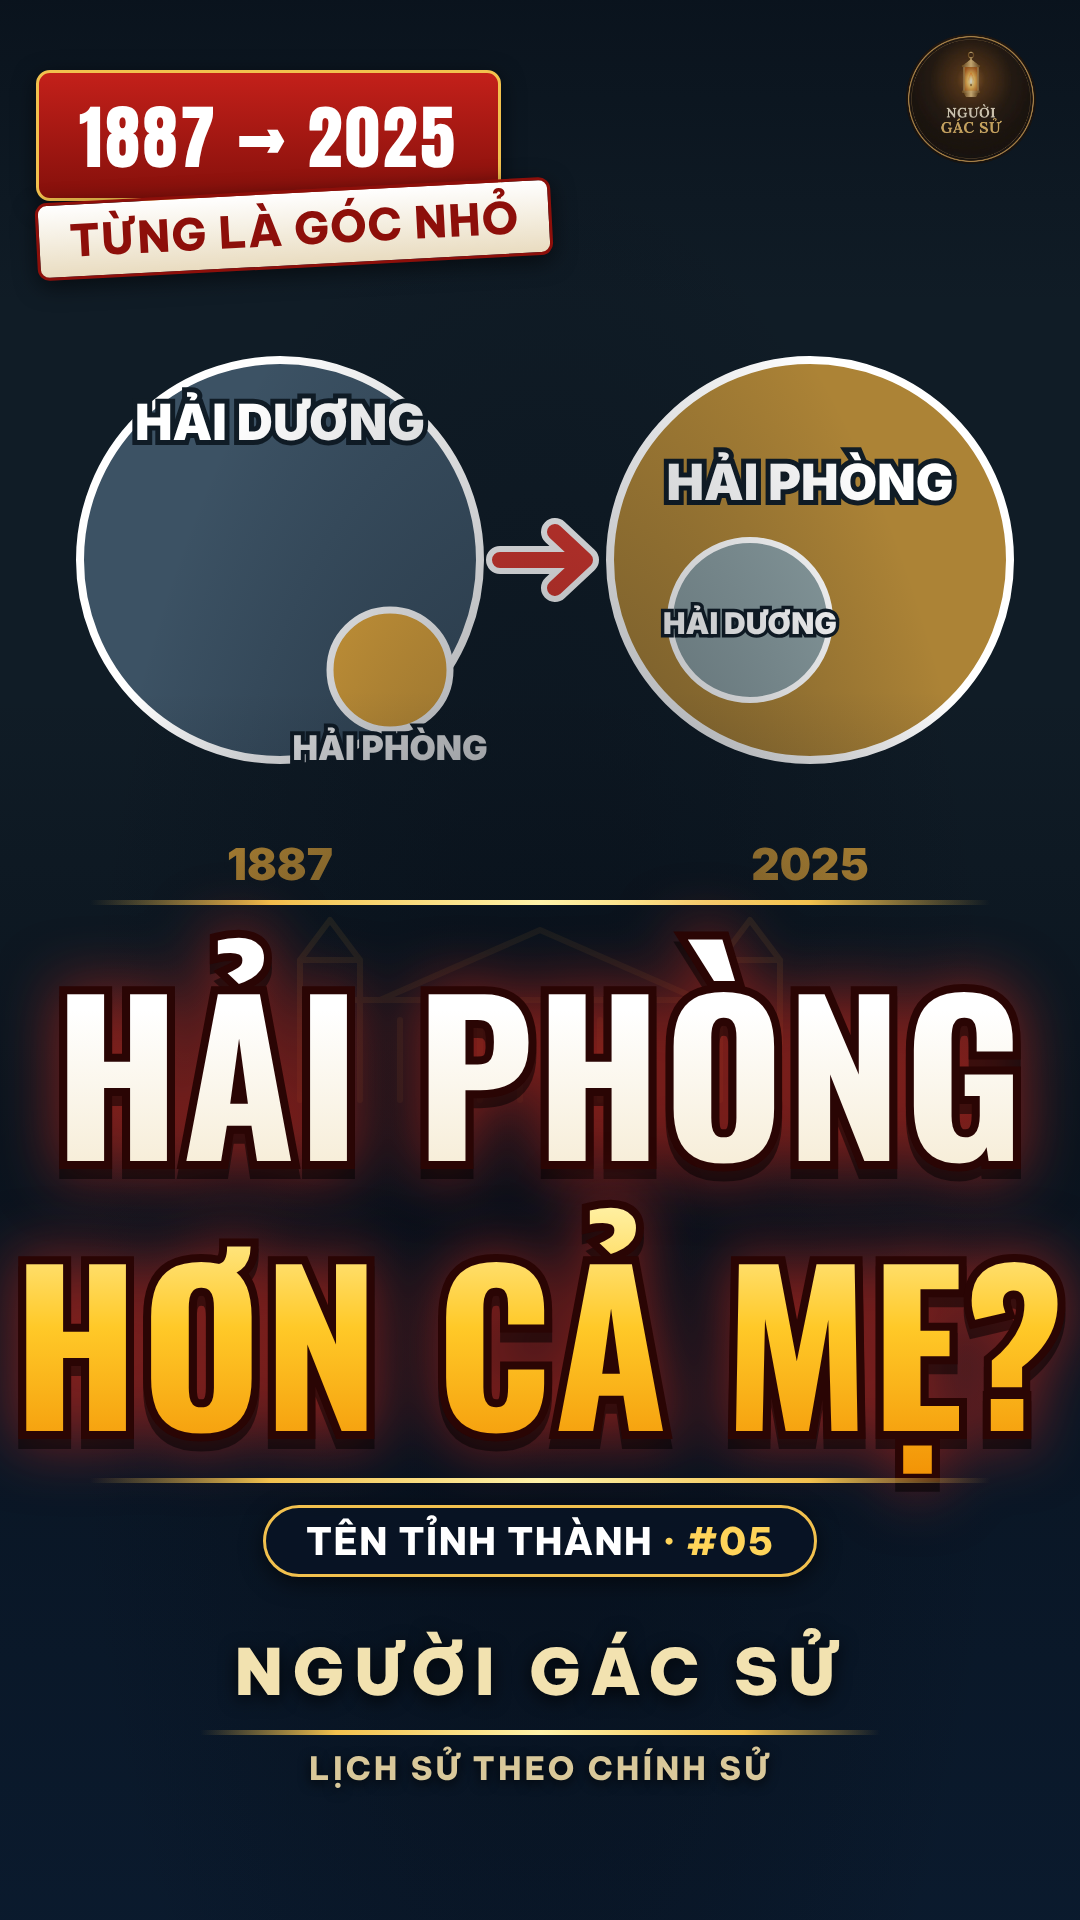
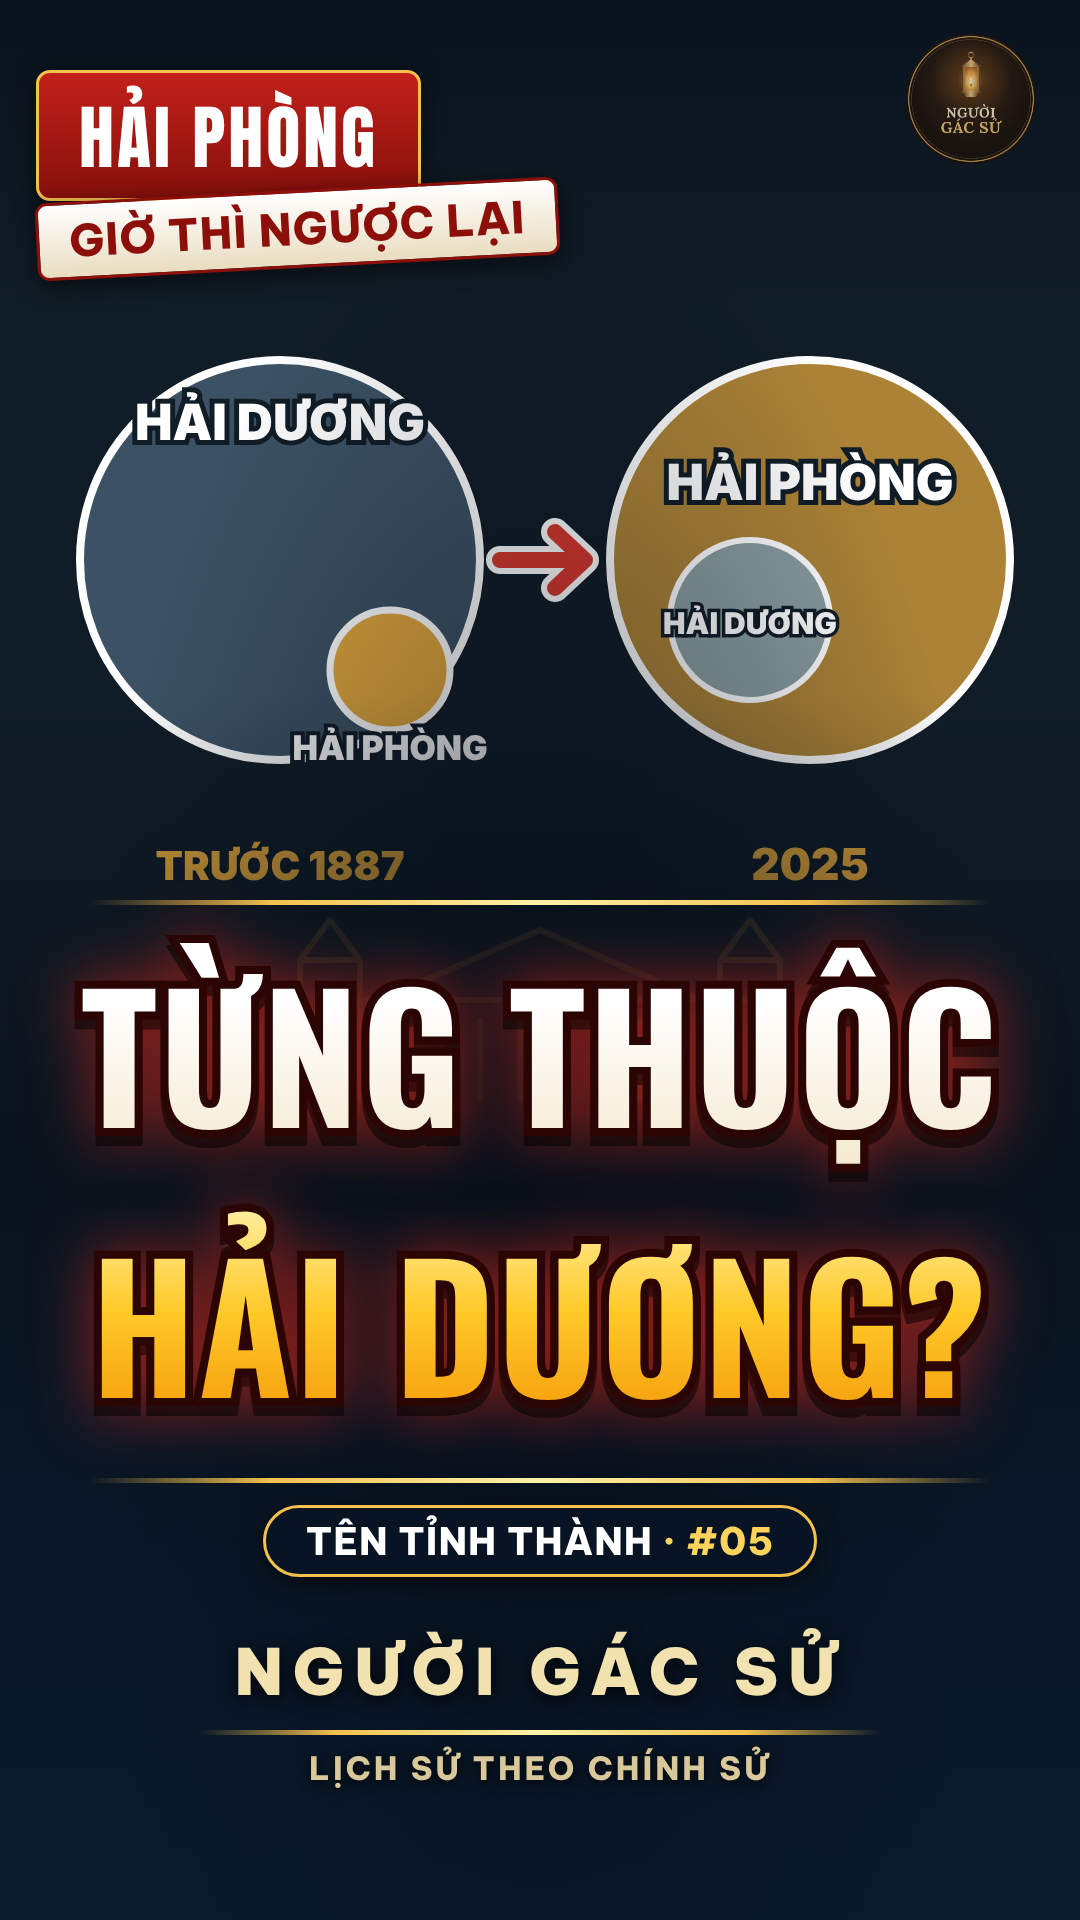
Bìa TN5: tiêu đề rõ hơn; tao_bia_mau thêm cỡ chữ tùy chọn [skip ci]
Claude-Session: https://claude.ai/code/session_01H1Wbxj9sAcUYRQ6Wju6xqR

Changed region(s): [[0.0, 0.4375, 1.0, 0.7812], [0.0611, 0.0312, 0.5194, 0.1562]]

diff --git a/assets/bia/tao_bia_mau.py b/assets/bia/tao_bia_mau.py
@@ -28,7 +28,7 @@ html = f'''<!doctype html><meta charset=utf-8><style>
  radial-gradient(ellipse at 50% 66%,rgba(5,12,22,.62) 0,rgba(5,12,22,0) 62%),
  linear-gradient(180deg,rgba(5,12,22,.55) 0,rgba(5,12,22,0) 16%,rgba(5,12,22,0) 36%,rgba(5,12,22,.5) 60%,rgba(8,22,40,.78) 82%,rgba(10,26,46,.92) 100%)}}
 .ab{{position:absolute;left:0;width:1080px;text-align:center;white-space:nowrap;text-transform:uppercase;line-height:1}}
-.big{{font-family:O;font-weight:700;font-size:206px;letter-spacing:2px;padding:50px 0 60px;margin-top:-50px}}
+.big{{font-family:O;font-weight:700;font-size:{C.get('co',206)}px;letter-spacing:2px;padding:50px 0 60px;margin-top:-50px}}
 .bk{{color:#2a0504;-webkit-text-stroke:16px #2a0504;filter:drop-shadow(0 10px 0 rgba(0,0,0,.5)) drop-shadow(0 0 30px rgba(220,40,25,.6))}}
 .w{{background:linear-gradient(180deg,#fff 30%,#f3e6c8 100%);-webkit-background-clip:text;color:transparent}}
 .y{{background:linear-gradient(180deg,#fff2a8 5%,#ffc928 45%,#f08a00 100%);-webkit-background-clip:text;color:transparent}}
